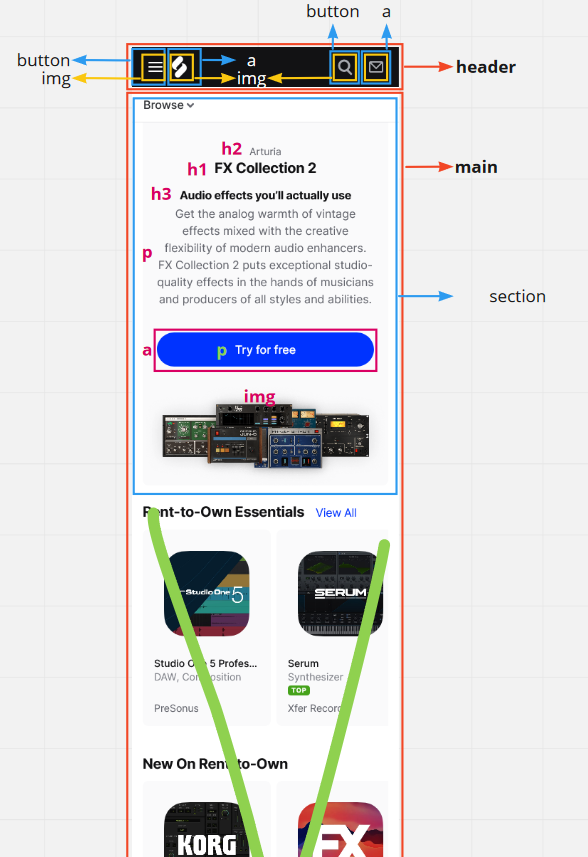
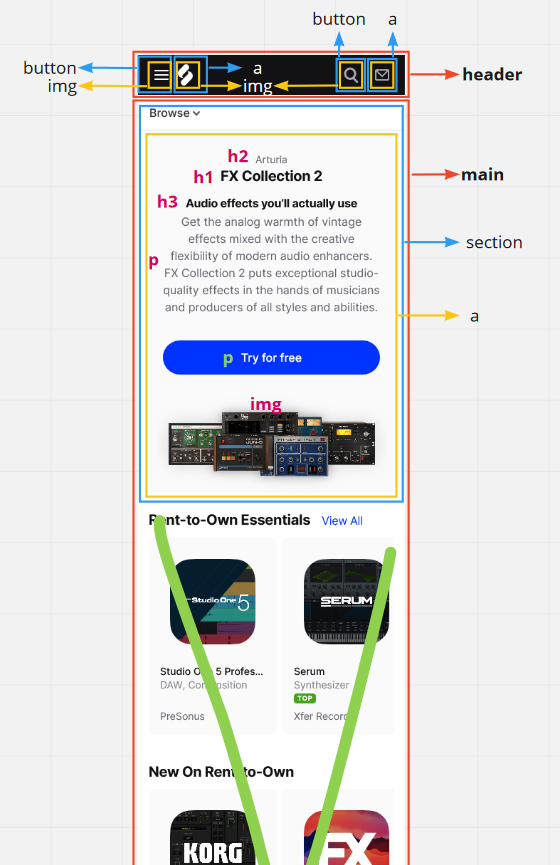
Add files via upload

Changed region(s): [[0.0304, 0.0, 0.9411, 1.0], [0.8196, 0.3337, 0.9411, 0.3641], [0.7893, 0.3641, 0.8196, 0.3944]]

diff --git a/README.md b/README.md
@@ -73,11 +73,14 @@ inlogscherm splice
 <img src="images/breakdown_plugins5.png" alt="5 van de 6 afbeeldingen van de breakdown van het plugin-scherm">
 <img src="images/breakdown_plugins6.png" alt="6 van de 6 afbeeldingen van de breakdown van het plugin-scherm">
 
-### dynamisch deel (bijv menu): 
-<img src="images/dummy-plaatje.jpg" width="375px" alt="breakdown van een dynamisch deel">
+### navigatie: 
+<img src="images/breakdown_navigatie.png" width="375px" alt="breakdown van de navigatie">
 
-### wellicht nog een dynamisch deel (bijv filter): 
-<img src="images/dummy-plaatje.jpg" width="375px" alt="breakdown van nog een dynamisch deel">
+### dropdown: 
+<img src="images/breakdown_dropdown.png" width="375px" alt="breakdown van het dropdown-menu">
+
+### dropdown: 
+<img src="imgages/breakdown_form.png" width="375px" alt="breakdown van het zoekveld">
 
 </details>
 
